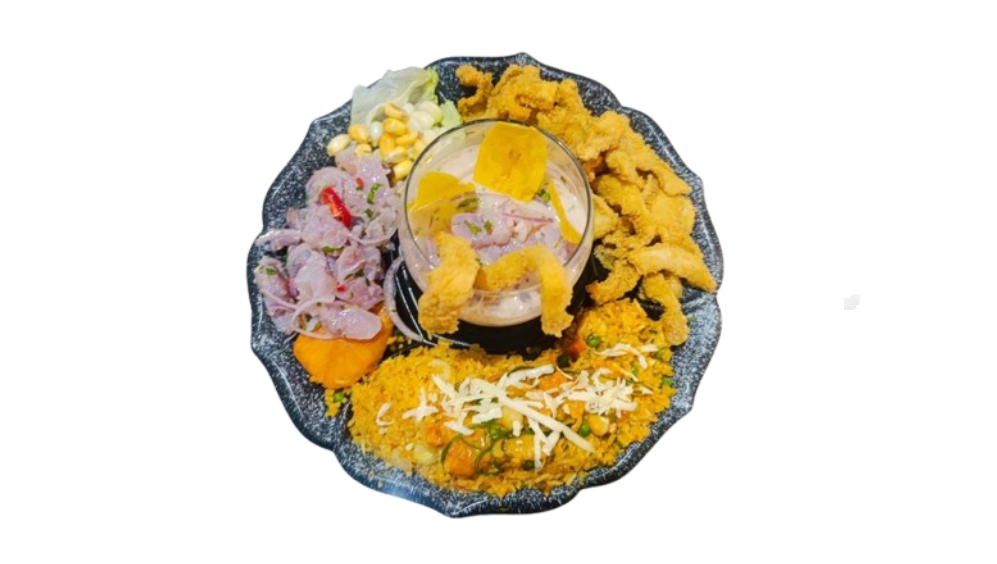
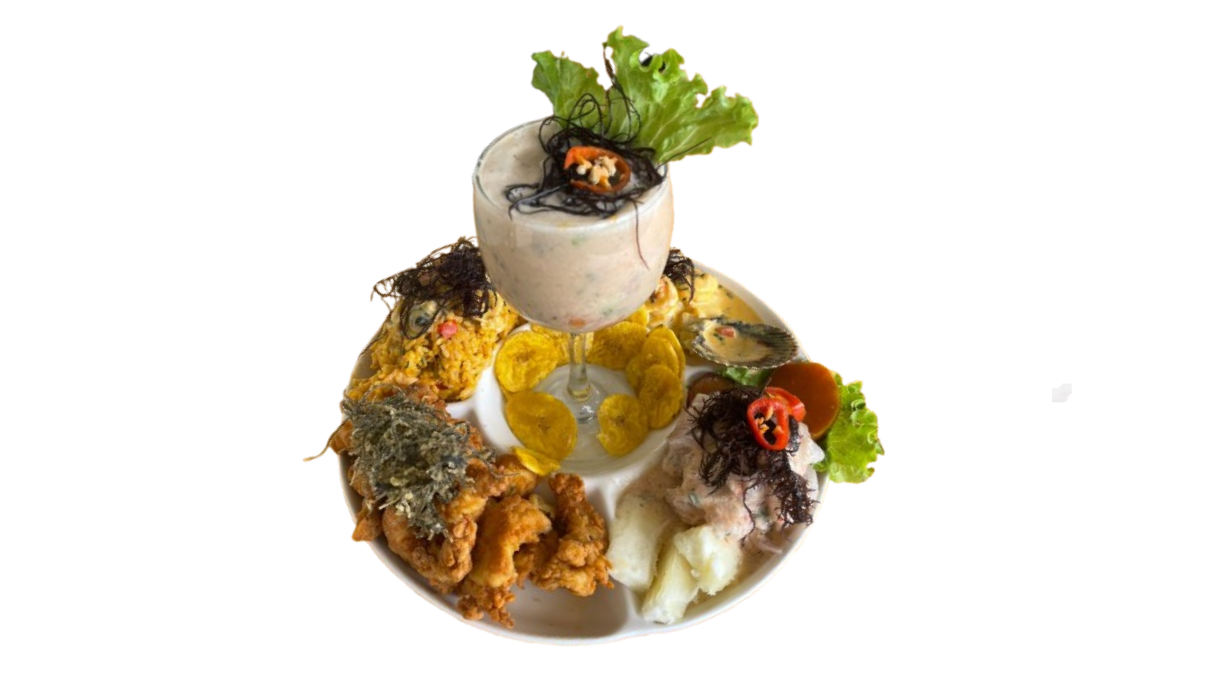
Subiendo update

diff --git a/scripts/products.js b/scripts/products.js
@@ -6,7 +6,7 @@ const products = [
         name: "Ceviche Simple",
         category: "ceviches",
         price: 25,
-        description: "Trozos de pescado blanco, choclo, camote, leche de tigre y cancha.",
+        description: "Trozos de pescado blanco, choclo, camote, yuca y cancha.",
         image: "./images/menu/ceviche-simple.jpg",
         available: true
     },
@@ -24,7 +24,7 @@ const products = [
         name: "Ceviche de langostino",
         category: "ceviches",
         price: 30,
-        description: "Langostinos frescos, choclo, camote, leche de tigre y cancha.",
+        description: "Langostinos frescos, choclo, camote, yuca y cancha.",
         image: "./images/menu/ceviche-de-langostino.jpg",
         available: true
     },
@@ -161,7 +161,7 @@ const products = [
         category: "sudados",
         price: 25,
         description: "Tramboyo entero, cebolla, tomate, ají amarillo en juliana, yuca y porción de arroz.",
-        image: "./images/menu/sudado-de-tramboyo.jpg",
+        image: "./images/menu/sudado.jpg",
         available: true
     },
     {
@@ -170,7 +170,7 @@ const products = [
         category: "sudados",
         price: 25,
         description: "Filete de toyo, cebolla, tomate, ají amarillo en juliana, yuca y porción de arroz.",
-        image: "./images/menu/sudado-de-toyo.jpg",
+        image: "./images/menu/sudado.jpg",
         available: true
     },
     {
@@ -179,7 +179,7 @@ const products = [
         category: "sudados",
         price: 25,
         description: "Cabrilla entera, cebolla, tomate, ají amarillo en juliana, yuca y porción de arroz.",
-        image: "./images/menu/sudado-de-cabrilla.jpg",
+        image: "./images/menu/sudado.jpg",
         available: true
     },
     {
